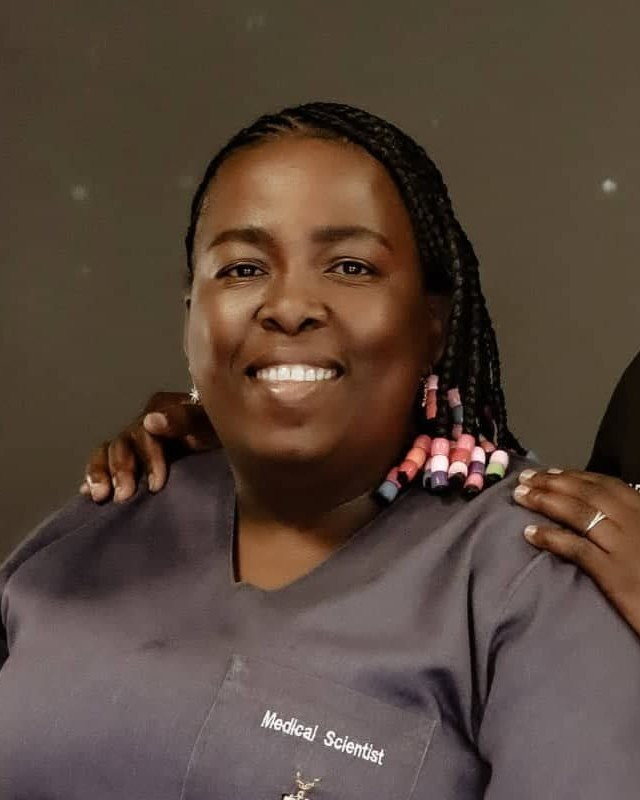
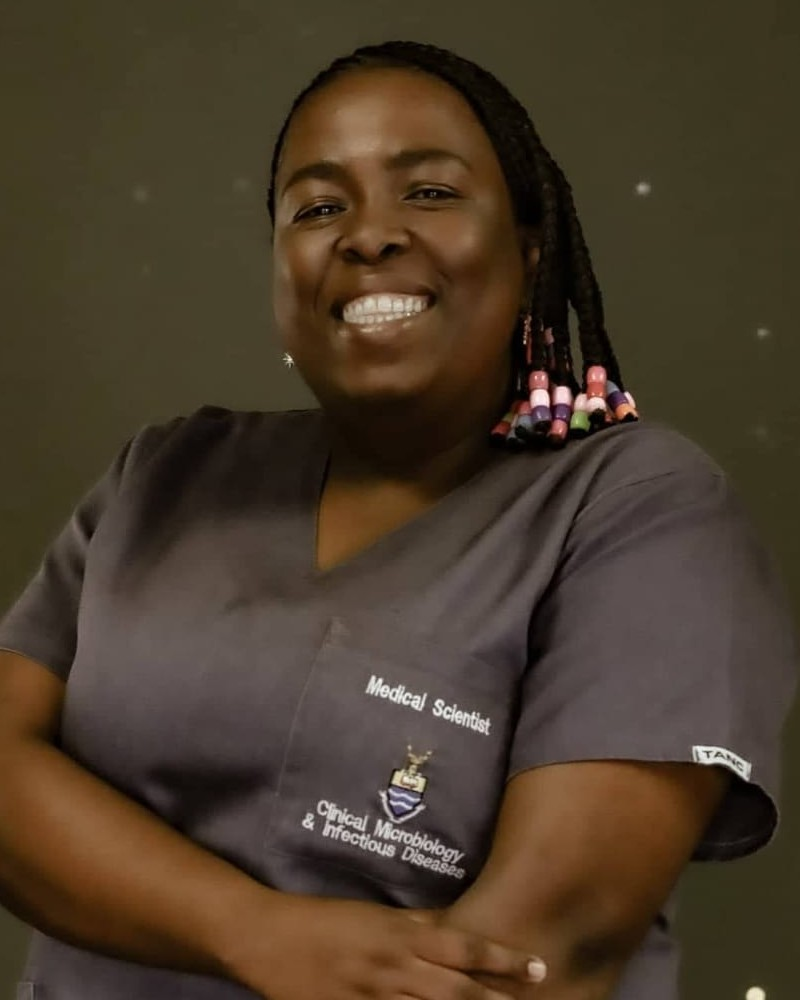
Use individual founder portraits on team cards

diff --git a/site/src/app/about/page.tsx b/site/src/app/about/page.tsx
@@ -62,13 +62,13 @@ export default function AboutPage() {
                 key={m.name}
                 className="rounded-3xl border border-brand-100 bg-cream p-8 md:p-10"
               >
-                <div className="mx-auto w-40 overflow-hidden rounded-2xl border border-brand-100 shadow-md sm:mx-0">
+                <div className="mx-auto w-48 overflow-hidden rounded-2xl border border-brand-100 shadow-md sm:mx-0">
                   <Image
                     src={m.photo}
                     alt={`${m.name}, ${m.role} at ${site.shortName}`}
                     width={640}
                     height={800}
-                    className="aspect-[4/5] w-full object-cover"
+                    className="aspect-[4/5] w-full object-cover object-top"
                   />
                 </div>
                 <h3 className="mt-5 font-serif text-2xl text-brand-900">

diff --git a/site/src/app/page.tsx b/site/src/app/page.tsx
@@ -211,13 +211,13 @@ export default function Home() {
               key={m.name}
               className="rounded-2xl border border-brand-100 bg-white p-8 shadow-sm"
             >
-              <div className="mb-5 w-32 overflow-hidden rounded-2xl border border-brand-100">
+              <div className="mb-5 w-40 overflow-hidden rounded-2xl border border-brand-100">
                 <Image
                   src={m.photo}
                   alt={`${m.name}, ${m.role} at ${site.shortName}`}
                   width={640}
                   height={800}
-                  className="aspect-[4/5] w-full object-cover"
+                  className="aspect-[4/5] w-full object-cover object-top"
                 />
               </div>
               <h3 className="font-serif text-2xl text-brand-900">{m.name}</h3>
